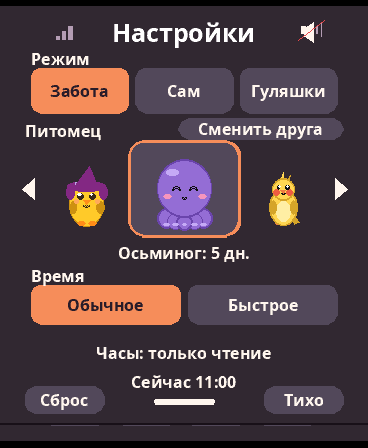
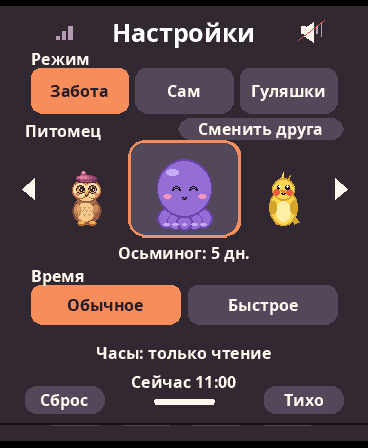
Show Sovenka in a small plum beret in the Russian gallery

Changed region(s): [[0.1793, 0.375, 0.2989, 0.5312]]

diff --git a/docs/SCREENSHOTS_RU.md b/docs/SCREENSHOTS_RU.md
@@ -1,6 +1,6 @@
 # Скриншоты MedveGoshi
 
-[← На главную](../README.md) · [Карамелька в движении](#карамелька-в-движении) · [Рыська крупным планом](#рыська-крупным-планом) · [Фенек крупным планом](#фенек-крупным-планом) · [Бйорни крупным планом](#бйорни-крупным-планом)
+[← На главную](../README.md) · [Совёнка крупным планом](#совёнка-крупным-планом) · [Карамелька в движении](#карамелька-в-движении) · [Рыська крупным планом](#рыська-крупным-планом) · [Фенек крупным планом](#фенек-крупным-планом) · [Бйорни крупным планом](#бйорни-крупным-планом)
 
 Все кадры сняты в эмуляторе **AMOLED V1, 368×448** из русской сборки [PR #2](https://github.com/Medvedolog/medvegoshi/pull/2). Реплики, часы и метки полей набраны пропорциональным Noto Sans Bold в родном разрешении, как и меню. В крупном режиме сцена рисуется прямо в 368×435 внутри панели, без растягивания кадра 240×284. Карамелька получила новый облик щенка: длинные ушки, светлая мордочка, карамельные тени и мелкие блики на AMOLED. Слева игровой момент, справа тот же питомец в меню «Настройки». Подписи поясняют сцену; реплики в кавычках взяты с экрана. Нажми на кадр, чтобы увеличить.
 
@@ -8,7 +8,7 @@
 |---|:---:|:---:|
 | **1. Капи**<br>Яйцо<br>«Я в яйце!» · «Согрей меня!» | <a href="img/medvegoshi-ru/gallery/capi-play.png"><img src="img/medvegoshi-ru/gallery/capi-play.png" width="174" alt="Капи — Яйцо"></a> | <a href="img/medvegoshi-ru/gallery/capi-settings.png"><img src="img/medvegoshi-ru/gallery/capi-settings.png" width="174" alt="Капи в меню Настройки"></a> |
 | **2. Слон**<br>Купание<br>«Как приятно!» | <a href="img/medvegoshi-ru/gallery/elefante-play.png"><img src="img/medvegoshi-ru/gallery/elefante-play.png" width="174" alt="Слон — Купание"></a> | <a href="img/medvegoshi-ru/gallery/elefante-settings.png"><img src="img/medvegoshi-ru/gallery/elefante-settings.png" width="174" alt="Слон в меню Настройки"></a> |
-| **3. Утка**<br>Ночь и сон<br>«Пойду спать...» | <a href="img/medvegoshi-ru/gallery/pato-play.png"><img src="img/medvegoshi-ru/gallery/pato-play.png" width="174" alt="Утка — Ночь и сон"></a> | <a href="img/medvegoshi-ru/gallery/pato-settings.png"><img src="img/medvegoshi-ru/gallery/pato-settings.png" width="174" alt="Утка в меню Настройки"></a> |
+| **3. Совёнка**<br>Вечер в берете | <a href="img/medvegoshi-ru/gallery/pato-play.png"><img src="img/medvegoshi-ru/gallery/pato-play.png" width="174" alt="Совёнка в берете на закате"></a> | <a href="img/medvegoshi-ru/gallery/pato-settings.png"><img src="img/medvegoshi-ru/gallery/pato-settings.png" width="174" alt="Совёнка в меню Настройки"></a> |
 | **4. Осьминог**<br>Утренняя прогулка<br>«Поле 1» | <a href="img/medvegoshi-ru/gallery/polvo-play.png"><img src="img/medvegoshi-ru/gallery/polvo-play.png" width="174" alt="Осьминог — Утренняя прогулка"></a> | <a href="img/medvegoshi-ru/gallery/polvo-settings.png"><img src="img/medvegoshi-ru/gallery/polvo-settings.png" width="174" alt="Осьминог в меню Настройки"></a> |
 | **5. Попугай**<br>Осмотр<br>«Я не болею!» | <a href="img/medvegoshi-ru/gallery/calopsita-play.png"><img src="img/medvegoshi-ru/gallery/calopsita-play.png" width="174" alt="Попугай — Осмотр"></a> | <a href="img/medvegoshi-ru/gallery/calopsita-settings.png"><img src="img/medvegoshi-ru/gallery/calopsita-settings.png" width="174" alt="Попугай в меню Настройки"></a> |
 | **6. Карамелька**<br>Кормление после обеда<br>«Я уже сыт!» | <a href="img/medvegoshi-ru/gallery/cachorro-play.png"><img src="img/medvegoshi-ru/gallery/cachorro-play.png" width="174" alt="Карамелька — Кормление после обеда"></a> | <a href="img/medvegoshi-ru/gallery/cachorro-settings.png"><img src="img/medvegoshi-ru/gallery/cachorro-settings.png" width="174" alt="Карамелька в меню Настройки"></a> |
@@ -20,6 +20,13 @@
 | **12. Бйорни**<br>Вечерние гуляшки<br>«Поле 1» | <a href="img/medvegoshi-ru/gallery/bjorni-play.png"><img src="img/medvegoshi-ru/gallery/bjorni-play.png" width="174" alt="Бйорни — Вечерние гуляшки"></a> | <a href="img/medvegoshi-ru/gallery/bjorni-settings.png"><img src="img/medvegoshi-ru/gallery/bjorni-settings.png" width="174" alt="Бйорни в меню Настройки"></a> |
 | **13. Рыська**<br>Дневной уход | <a href="img/medvegoshi-ru/gallery/ryska-play.png"><img src="img/medvegoshi-ru/gallery/ryska-play.png" width="174" alt="Рыська в игре"></a> | <a href="img/medvegoshi-ru/gallery/ryska-settings.png"><img src="img/medvegoshi-ru/gallery/ryska-settings.png" width="174" alt="Рыська в меню Настройки"></a> |
 | **14. Фенек**<br>Знакомство | <a href="img/medvegoshi-ru/gallery/fennec-play.png"><img src="img/medvegoshi-ru/gallery/fennec-play.png" width="174" alt="Фенек в игре"></a> | <a href="img/medvegoshi-ru/gallery/fennec-settings.png"><img src="img/medvegoshi-ru/gallery/fennec-settings.png" width="174" alt="Фенек в меню Настройки"></a> |
+
+## Совёнка крупным планом
+
+Совёнка сменила Утку на третьем месте в меню. У неё маленький клюв, круглые совиные глаза и сливовый берет с помпоном. Прогресс из прежнего слота сохраняется.
+
+[![Совёнка знакомится, радуется и дремлет](img/medvegoshi-ru/sovenka-preview.png)](img/medvegoshi-ru/sovenka-preview.png)
+
 
 ## Рыська крупным планом
 

diff --git a/README.md b/README.md
@@ -40,7 +40,7 @@
 
 ### 14 питомцев
 
-Девять из Capigoshi: **Капи, Слон, Утка, Осьминог, Попугай, Карамелька, Кот, Пришелец и Лягушонок**. Карамелька остаётся щенком: висячие уши, светлая мордочка и карамельные тени. У неё теперь отдельные движения хвоста, ушей и лап; прежнее сохранение остаётся совместимым. В MedveGoshi к ним добавились **Пип, Жирафик, Бйорни, Рыська и Фенек**. У каждого своё сохранение: можно сменить питомца, а потом вернуться к прежнему прогрессу. Новые персонажи подключаются через [модульный каталог Zoo](https://github.com/Medvedolog/medvegoshi/tree/feature/russian-game-ui/zoo).
+Девять знакомых слотов из Capigoshi: **Капи, Слон, Совёнка, Осьминог, Попугай, Карамелька, Кот, Пришелец и Лягушонок**. В русской версии бывшая Утка стала Совёнкой в берете с помпоном; её старый прогресс сохраняется. Карамелька остаётся щенком: висячие уши, светлая мордочка и карамельные тени. У неё теперь отдельные движения хвоста, ушей и лап; прежнее сохранение остаётся совместимым. В MedveGoshi к ним добавились **Пип, Жирафик, Бйорни, Рыська и Фенек**. У каждого своё сохранение: можно сменить питомца, а потом вернуться к прежнему прогрессу. Новые персонажи подключаются через [модульный каталог Zoo](https://github.com/Medvedolog/medvegoshi/tree/feature/russian-game-ui/zoo).
 
 **Рыська** — песочная рысь по детскому рисунку: зелёные глаза, кисточки, сердечки на щёчках и светлое сердце на груди. [Рыська крупным планом](docs/SCREENSHOTS_RU.md#рыська-крупным-планом).
 
